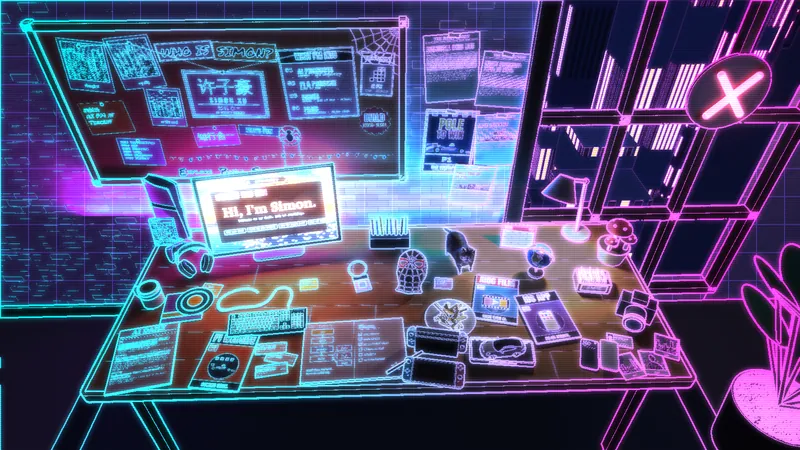
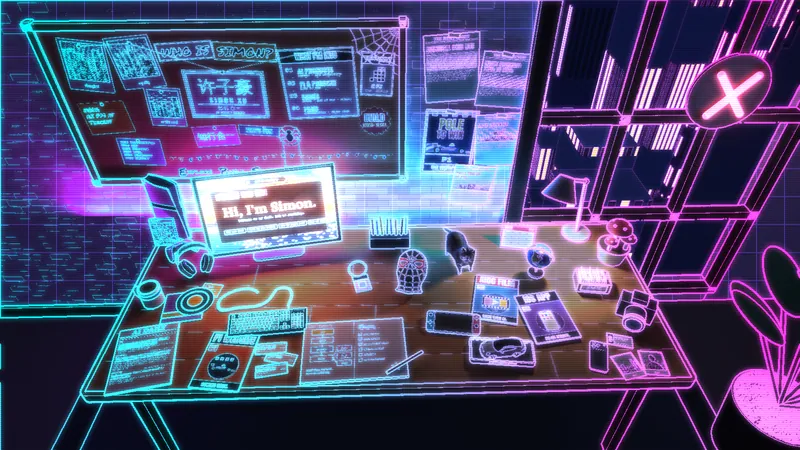
Declutter the desk
Keep only the handheld Switch and one iPhone from their two-device
models (new keep= filter in kit.glb), and drop the fries easter egg,
two small sticky notes and a polaroid. Re-render the draft styles.

Claude-Session: https://claude.ai/code/session_019ggxabgDhCYUh62LeLnHLD

diff --git a/site/js/content.js b/site/js/content.js
@@ -37,7 +37,6 @@ export const HOTS = {
   music: { panel: 'music' },
   contact: { panel: 'contact' },
   camera: { panel: 'photos' },
-  fries: { panel: 'fries' },
   cars: { panel: 'cars' },
   calendar: { panel: 'review' },
   globe: { panel: 'places' },
@@ -66,7 +65,6 @@ export const LABELS = {
   music: { zh: '放张唱片', en: 'Play a record' },
   contact: { zh: '联系我', en: 'Contact' },
   camera: { zh: '摄影', en: 'Photography' },
-  fries: { zh: '一盘薯条', en: 'A plate of fries' },
   cars: { zh: '保时捷和赛车', en: 'Porsche & racing' },
   calendar: { zh: '年度回顾', en: 'Year in review' },
   globe: { zh: '去过的地方', en: 'Places' },
@@ -246,15 +244,6 @@ export const PANELS = {
     bullets: L([], []),
     tags: [],
     links: [{ label: L('邮箱 xuzihao1218@126.com', 'Email xuzihao1218@126.com'), href: 'mailto:xuzihao1218@126.com' }, { label: L('GitHub @simon200401', 'GitHub @simon200401'), href: 'https://github.com/simon200401' }],
-  },
-  fries: {
-    kicker: L('彩蛋', 'EASTER EGG'),
-    title: L('一盘薯条', 'A plate of fries'),
-    sub: L('工作也要吃饭', 'Even builders need snacks'),
-    body: L(['你发现了桌上的薯条。'], ['You found the fries.']),
-    bullets: L([], []),
-    tags: [],
-    links: [],
   },
 };
 

diff --git a/blender/layout.py b/blender/layout.py
@@ -166,7 +166,6 @@ def build_monitor():
     lt = light("screen_light", "AREA", "screen", 6, "#ffb07a", (0, -0.06, 0), rot=(-math.pi / 2, 0, 0), size=0.6, size_y=0.36)
     lt.parent = tilt
     decal("sticky_a", 0.095, 0.08, (-0.87, 0.045), "now.png", yaw=-9, hot="now")   # NOW 便签：最近在做什么
-    decal("sticky_b", 0.085, 0.071, (-0.40, 0.07), "sticky_0.png", yaw=7, hot="keyboard")
 
 
 def build_track():
@@ -227,24 +226,13 @@ def build_center():
         rod(f"pen{i}", (x, py, T + 0.04), tip, 0.008, M(f"pen{i}", col, 0.4), seg=10)
     # 小布：美短（Zhuier 的猫模型，CC BY 4.0），贴图去掉棕色调成银虎斑；脸朝镜头偏右
     glb("cat", "models/cat.glb", 0.33, (0.34, 0.25, T), rot=(0, 0, R(16)), hot="cat", sat=0.12, val=1.25)
-    # 蜘蛛面具：点它切换宇宙（致敬参考站）
-    # 迈尔斯的面具（spider boy，CC BY 4.0）：仰面放倒，脸稍微朝镜头
+    # 迈尔斯的面具（spider boy，CC BY 4.0）：点它切换宇宙（致敬参考站）；仰面放倒，脸稍微朝镜头
     glb("mask", "models/mask.glb", 0.24, (0.10, 0.05, T), rot=(0, 0, R(-10)), pre=(R(-72), 0, 0), hot="mask")
-    decal("sticky_c", 0.085, 0.071, (0.26, 0.06), "sticky_2.png", yaw=-7, hot="mask")
-    # 薯条（彩蛋）
-    fx, fy = 0.27, -0.17
-    cyl("plate", 0.085, 0.012, (fx, fy, T + 0.006), M("plate", "#ffffff", 0.3), r2=0.115, hot="fries")
-    fry = bmesh.new()
-    for _ in range(30):
-        a, d = rng.uniform(0, math.tau), rng.uniform(0, 0.06)
-        m = Matrix.Translation((math.cos(a) * d, math.sin(a) * d, rng.uniform(0.012, 0.036))) @ Euler((rng.uniform(-0.5, 0.5), rng.uniform(-0.5, 0.5), rng.uniform(0, math.tau))).to_matrix().to_4x4() @ Matrix.Diagonal((0.012, 0.07, 0.012, 1))
-        bmesh.ops.create_cube(fry, size=1.0, matrix=m)
-    add("fries", fry, M("fries", "#ffc93c", 0.6), (fx, fy, T + 0.008), hot="fries")
     # 摊开的笔记本 + 笔
     decal("notebook", 0.44, 0.308, (-0.16, -0.33), "notebook.png", yaw=3, hot="notebook", thick=0.012, edge="#2f9e77")
     rod("nb_pen", (-0.02, -0.46, T + 0.022), (0.13, -0.36, T + 0.022), 0.006, M("nb_pen", "#e5484d", 0.4))
-    # Switch：底座 + 掌机（Bjarne Stokhof，CC BY 4.0），和 PS5 一起点开是游戏
-    glb("switch", "models/switch.glb", 0.25, (0.18, -0.41, T), rot=(0, 0, R(-10)), hot="games")
+    # Switch 掌机（Bjarne Stokhof，CC BY 4.0；原模型还带一台插在底座上的，只留掌机），和 PS5 一起点开是游戏
+    glb("switch", "models/switch.glb", 0.24, (0.28, -0.20, T), rot=(0, 0, R(-8)), hot="games", keep=lambda x, y, z: y < 0)
 
 
 def build_right():
@@ -310,8 +298,8 @@ def build_right():
     # 刊物三本，扇形摊开
     decal("zine_roundtable", 0.205, 0.28, (0.50, -0.05), "zine_roundtable.png", yaw=-13, hot="zine-2", thick=0.006)
     decal("zine_athena", 0.205, 0.28, (0.71, -0.17), "zine_athena.png", yaw=9, hot="zine-3", thick=0.006, z=0.008)
-    # iPhone 17 Pro（zhe_kan，CC BY-NC-SA 4.0）：正反两台平放在桌上，点开是 iOS App 项目
-    glb("phone", "models/iphone.glb", 0.15, (0.88, -0.39, T), rot=(0, 0, R(-18)), pre=(R(-90), 0, 0), hot="phone")
+    # iPhone 17 Pro（zhe_kan，CC BY-NC-SA 4.0；原模型是正反两台，只留背面那台）：背面朝上平放，点开是 iOS App 项目
+    glb("phone", "models/iphone.glb", 0.15, (0.88, -0.39, T), rot=(0, 0, R(-18)), pre=(R(-90), 0, 0), hot="phone", keep=lambda x, y, z: x < 0)
     # 相机
     cxm, cym, cyaw = 1.12, -0.16, R(-28)
     cam_b = M("cam_body", "#22242a", 0.5)
@@ -325,7 +313,6 @@ def build_right():
     decal("bizcard", 0.105, 0.06, (1.00, -0.31), "bizcard.png", yaw=-16, hot="contact", thick=0.001)
     decal("polaroid_a", 0.098, 0.118, (0.99, -0.44), "polaroid_a.png", yaw=12, hot="photos")
     decal("polaroid_b", 0.098, 0.118, (1.10, -0.43), "polaroid_b.png", yaw=-6, z=0.004, hot="photos")
-    decal("polaroid_c", 0.098, 0.118, (1.19, -0.35), "polaroid_c.png", yaw=-24, z=0.006, hot="photos")
 
 
 def build_plant():

diff --git a/blender/kit.py b/blender/kit.py
@@ -118,10 +118,11 @@ def adopt(mat, paint=None, metal=None, rough=None, sat=None, val=1.0):
     return mat
 
 
-def glb(name, path, length, loc, rot=(0, 0, 0), pre=(0, 0, 0), hot=None, parent=None, paint=None, sat=None, val=1.0):
+def glb(name, path, length, loc, rot=(0, 0, 0), pre=(0, 0, 0), hot=None, parent=None, paint=None, sat=None, val=1.0, keep=None):
     """导入一个 glb 模型：所有零件合成一个网格（墨线只描外轮廓，不会把小零件描成一团），
     去掉动画；先按 pre（欧拉角，弧度）转一下（比如把立着的面具放倒），再按水平最长边缩放到 length，底面贴 z=0。
-    paint = {材质名里的关键词: 颜色}，用来换车漆之类；sat / val 调整个模型贴图的饱和度和亮度。"""
+    paint = {材质名里的关键词: 颜色}，用来换车漆之类；sat / val 调整个模型贴图的饱和度和亮度。
+    keep(x, y, z) 返回 False 的零件整块去掉（按零件中心判断，坐标是导入后、转 pre 之前的），用来从一套模型里只留一件。"""
     before = set(bpy.data.objects)
     bpy.ops.import_scene.gltf(filepath=os.path.join(ROOT, path))
     new = [o for o in bpy.data.objects if o not in before]
@@ -148,12 +149,32 @@ def glb(name, path, length, loc, rot=(0, 0, 0), pre=(0, 0, 0), hot=None, parent=
     me = ob.data
     # 有的模型自带卡通描边（反向外壳，材质叫 outline），会把整个物体包成黑块；描边交给风格化那一步
     drop = {i for i, m in enumerate(me.materials) if m and "outline" in m.name.lower()}
-    if drop:
-        bm = bmesh.new()
-        bm.from_mesh(me)
-        bmesh.ops.delete(bm, geom=[f for f in bm.faces if f.material_index in drop], context="FACES")
+    bm = bmesh.new()
+    bm.from_mesh(me)
+    dead = [f for f in bm.faces if f.material_index in drop]
+    if keep:
+        seen = set()
+        for f in bm.faces:   # 按连在一起的零件分组，零件中心不满足 keep 就整块删
+            if f.index in seen:
+                continue
+            part, todo = [], [f]
+            seen.add(f.index)
+            while todo:
+                g = todo.pop()
+                part.append(g)
+                for e in g.edges:
+                    for h in e.link_faces:
+                        if h.index not in seen:
+                            seen.add(h.index)
+                            todo.append(h)
+            vs = {v for g in part for v in g.verts}
+            c = sum((v.co for v in vs), Vector()) / len(vs)
+            if not keep(*c):
+                dead += part
+    if dead:
+        bmesh.ops.delete(bm, geom=list(set(dead)), context="FACES")
         bm.to_mesh(me)
-        bm.free()
+    bm.free()
     me.transform(Euler(pre).to_matrix().to_4x4())
     vs = [v.co for v in me.vertices]
     mn = Vector([min(v[i] for v in vs) for i in range(3)])
